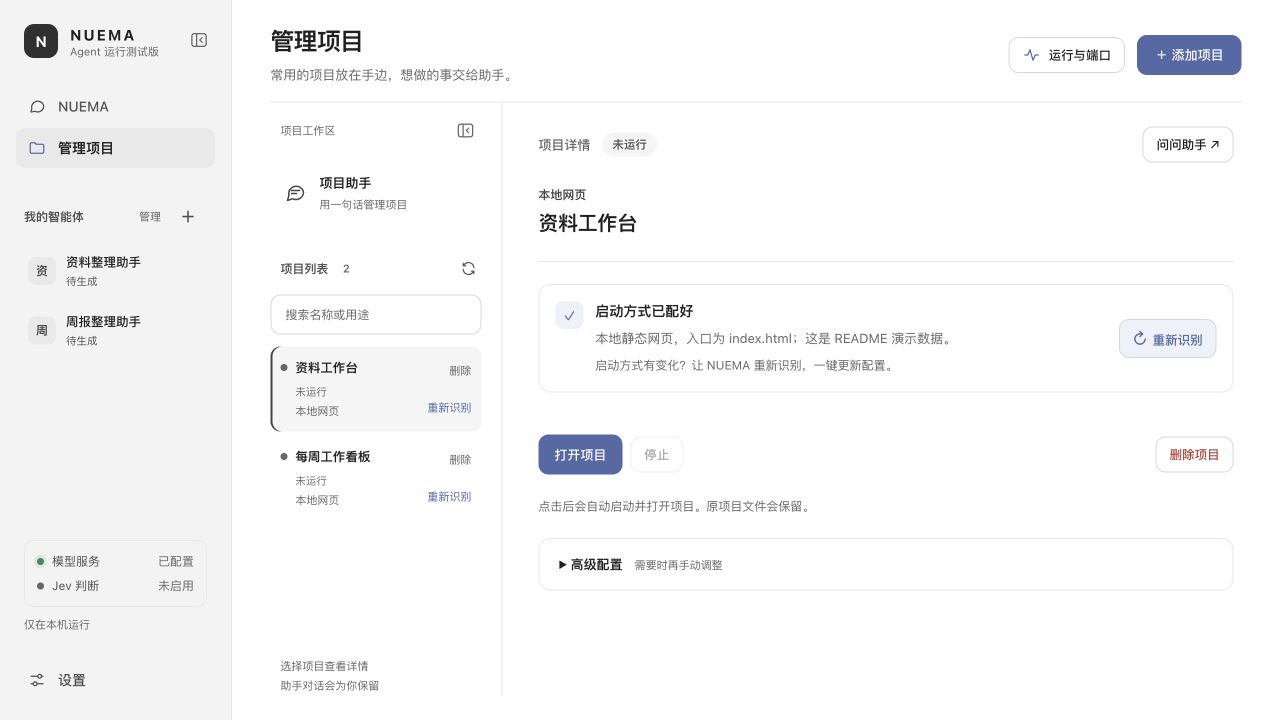
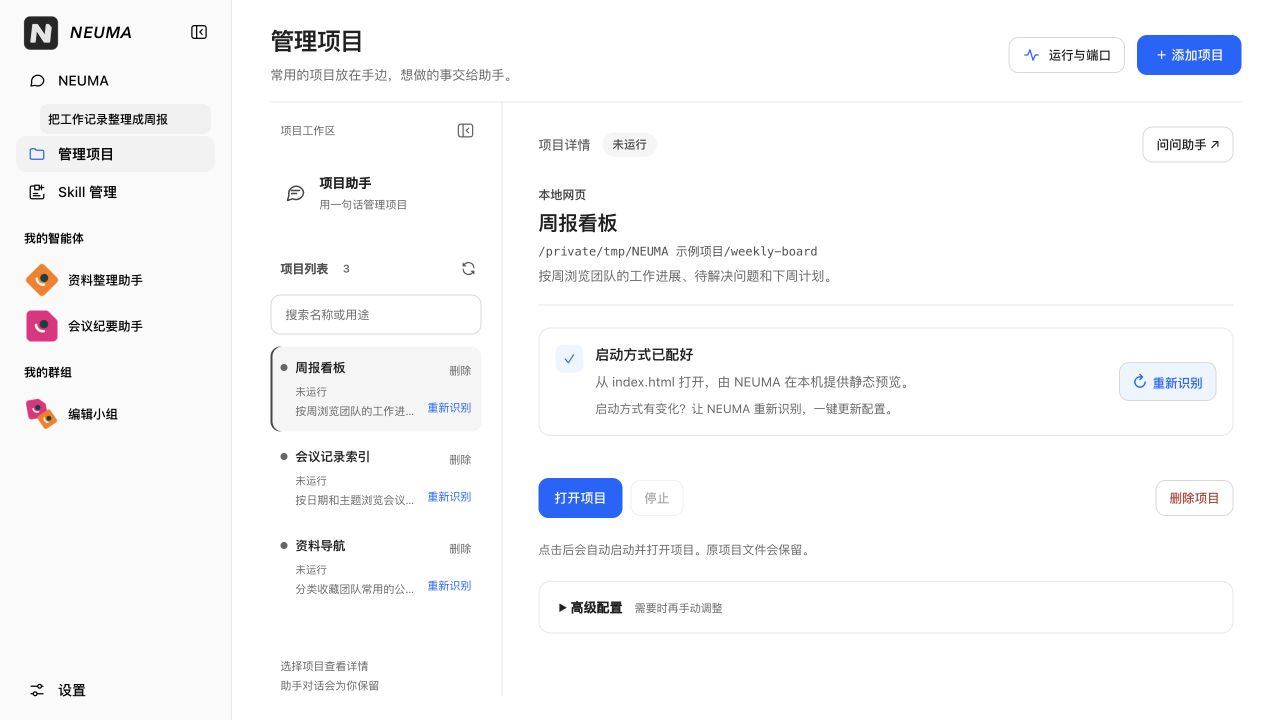
docs: refresh README and workspace screenshots

diff --git a/README.md b/README.md
@@ -1,125 +1,20 @@
 # NEUMA
 
-**从一句想法，到你的专属智能体。**
+NEUMA（纽玛）是一个本机智能体工作台。你可以在主对话里描述一项反复要做的工作，例如把每周的零散记录整理成周报。NEUMA 会和你一起确定输入和交付格式，再制作一个可以反复使用的助手。已有的助手可以组成群组，共享材料、分工并汇总结果。
 
-NEUMA 是一个在本机运行的智能体工作台。你用自然语言描述想完成的事，它帮你澄清需求、设计方案并检查可行性：简单任务生成轻量助手，需要代码的任务继续进入研发与验收。它也能集中管理电脑上已有的项目。
+[快速开始](#快速开始) · [工作台入口](#工作台入口) · [源码开发](#源码开发) · [详细使用指南](docs/user-guide.md)
 
-主 Agent 提供统一的长期对话入口：创建智能体、澄清需求、查询进度和派发群任务都在这里进行。点击左侧“我的智能体”“我的群组”标题可进入对应管理页；点击具体条目可折叠历史，悬浮时右侧的“方框加笔”图标可开启该条目的新对话；右侧仅在处理需求或具体群任务时展开相关信息。你可以把已有智能体组成长期群组，让成员自主认领、互相求助并整合成果；主 Agent 位于群外负责管理。
+![NEUMA 主对话正在澄清周报需求，右侧的需求说明显示每次输入、核心任务和输出结果](docs/images/readme-workspace.jpg)
 
-NEUMA 读作“纽玛”，取意早期音乐记谱中的 *neuma*：把声音组织成可复现的结构，对应把语言描述变成可运行的智能体。[Treccani 词典](https://www.treccani.it/vocabolario/neuma/)将这一音乐术语溯源到古希腊语 **νεῦμα**，意为“示意、手势”。正式拼写统一为 **NEUMA**。
-
-[快速开始](#快速开始) · [项目特点](#项目特点) · [源码开发](#源码开发) · [npm](https://www.npmjs.com/package/@chrissliu/neuma)
-
-> 本仓库版本号为 `0.1.0-preview.2`，发布范围是 **Apple 芯片 Mac（M 系列）试用版**。npm 安装使用 `preview` 标签；源码更新与 npm 发布分别进行，已发布包的版本和内容以 npm 实际记录为准。Windows、Linux 和 Intel Mac 尚不在当前支持范围内。
-
-![NEUMA 需求工作区：对话与需求草稿并排展示](https://raw.githubusercontent.com/Chriss09-ui/NEUMA/main/docs/images/readme-workspace.jpg)
-
-*需求澄清示例，截图使用旧版布局、临时演示数据与固定回复。当前版本已合并到主对话，右侧需求说明按需展开。*
-
-## 项目特点
-
-| 特点 | 你可以做什么 |
-| --- | --- |
-| **用日常语言创建助手** | 描述目标、材料和预期结果。追问会问清资料怎样交给智能体、大概有多少，并按工作台现有能力取舍。确认前可查看右侧草稿。 |
-| **先设计，再独立检查** | 复杂蓝图可按具体难点分派专项子 Agent，分别核对平台、接口或验收方案；在蓝图和模块提交时检查需求分工、全局配置与能力声明，问题交回对应责任节点。设计与评估依据同一份平台能力快照，最终仍完整检查需求覆盖、能力范围和验收条件。 |
-| **按复杂度选择实现方式** | 简单任务使用模型与文件工具；需要代码的任务进入“接收设计 → 拆分任务 → 开发 → 验收 → 交付”，可查看进度、停止和继续。 |
-| **按工作量分组设计与修复** | 复杂架构按职责分配模块；较大研发任务拆分骨架、用例设计和独立评审。修复按问题归属分派子 Agent，保留检查点与累计用量，合并后重新验收。 |
-| **每个智能体有自己的空间** | 需求、方案、代码、记忆与产物分别保存。对话自动保存，可从历史列表继续聊天，通过“产物”查看文件。 |
-| **回复支持格式与公式** | 助理回复显示加粗、列表、代码和数学公式；公式字体与排版库由本机服务提供，历史消息无需重新生成。 |
-| **群内自主协作** | 创建长期团队，成员互相了解能力、认领任务、定向求助，每项工作选出临时整合者。群记录、共享资料及成果独立保存。 |
-| **主 Agent 全局管理** | 查询各群与智能体的进度、阻塞和实际结果，按需要查看详情，分配任务与管理群组。 |
-| **共享上传材料能力** | 已就绪助手可上传或选择已有材料；同一助手的不同对话可再次使用文档、表格、PDF、演示文稿与图片。 |
-| **默认联网** | 新旧正式智能体默认具备公开网页搜索及正文读取；无需搜索 Key，也可以明确要求不联网。 |
-| **在 NEUMA 内使用交互应用** | 需要页面的任务交付应用工作区，页面和助手对话调用同一套已验收操作；任务进度、结果与产物保存在服务端。 |
-| **生成程序隔离运行** | 文件工具限制在专属目录，生成的本地程序经隔离环境运行；缺少所需系统能力时阻止执行。实际产物可预览和下载。 |
-| **管理已有本机项目** | 从文件夹接入现有项目，识别启动方式，打开或停止受管项目，查看运行状态与端口占用。 |
-
-![NEUMA 项目管理：项目列表、启动配置与操作入口](https://raw.githubusercontent.com/Chriss09-ui/NEUMA/main/docs/images/readme-projects.jpg)
-
-*已有项目留在原位置，在同一个工作区查看配置与操作入口。图中是未启动的演示项目。*
+*周报助手的需求进入「待你确认」时，可以对照右侧草稿，在原对话里直接修改。本文两张截图均取自 `main` 分支运行的桌面界面，使用演示数据。*
 
 ## 快速开始
 
-### 1. 安装并启动
+试用版支持 **Apple 芯片 Mac（M 系列）、macOS 14 或更新版本**。请使用 ARM64 版 Node.js，推荐 26+，也支持 22.x 的 22.22.2+ 和 24.x 的 24.15.0+。
 
-需要 **Apple 芯片 Mac、macOS 14+ 和 ARM64 版 Node.js**。推荐 Node.js 26+；其他兼容版本为 22.22.2+（22.x）和 24.15+（24.x）。材料解析原生模块要求 macOS 14 或更新版本；当前本机实际验证使用 Node.js 26.3.0。
+### 1. 启动工作台
 
-```sh
-npm install -g @chrissliu/neuma@preview
-neuma
-```
-
-启动后自动打开本机网页。保留终端运行，按 **Ctrl+C** 关闭服务及受管项目。首次安装会下载锁定的 SDK 依赖，无需安装虚拟机。
-
-### 2. 连接你选择的模型
-
-打开网页里的“设置”，填写：
-
-- **接口地址**：完整的 `/chat/completions` 地址。
-- **模型名称**：服务商提供的模型 ID。
-- **API Key**：你的模型服务密钥。
-
-当前支持 **OpenAI Chat Completions 兼容接口**，模型需要支持流式回复与工具调用。未配置模型时仍可打开页面。
-
-同一页可以选填 **Jev 需求判断** 的 TypeSafe API Key。填写后，Jev 只为你刚回答的那一点打分：达到通过线就继续，低于通过线时由需求整理决定要不要再问这一点。不填写则跳过这一步，澄清仍由需求整理和规则继续。默认模型为 `jev-1.14.0`。
-
-### 3. 创建第一个智能体
-
-1. 在主对话中描述想创建的助手，例如：“创建一个把工作记录整理成周报的智能体，缺少的信息明确标注。”NEUMA 根据对话识别意图，在同一输入框中继续澄清。
-2. 回答澄清问题。NEUMA 会问清目标、使用场合、资料怎样交给智能体、资料大概有多少，以及要交付的结果。公开搜索和网页读取是现成能力。浏览器自动操作、定时或外部事件触发的后台运行、公有云部署、直接使用数据库协议、不受限制地操作这台电脑，目前做不到，不会被当成以后可以补上。回复“确认”表示需求可以进入下一步，智能体尚未制作完成。
-3. 等待方案设计和独立检查；需要代码时继续研发与验收。
-4. 从“我的智能体”打开助手，输入任务，按需要上传或选择材料，并查看文件产物。
-
-如果想管理已有项目，进入“管理项目”，添加电脑上的项目文件夹即可。相关运行环境和项目依赖需提前准备好。
-
-### 4. 使用应用与专属连接
-
-例如描述：“创建一个链接资料搜寻工具：输入网页链接，先读取网页，再搜索相关公开资料；显示进度、筛选结果并导出 CSV，在 NEUMA 里提供操作页面。”交付页面的智能体首次默认打开“应用”，可切换“对话”或展开右侧“助手”；每个智能体记住最近的展示方式。
-
-公开搜索与网页读取默认通过 Tavily 无 Key 服务，失败时尝试 Exa 免费备用，这一免费底座内部切换无需专属搜索的回退授权。免费服务可能限流；界面与工具保留真实失败、来源、检索时间及正文截断信息。明确要求刷新或最新结果时跳过五分钟缓存。免费能力不包含模型服务，工作模型仍使用平台配置。
-
-“设置 → 连接与模型”按已确认需求展示配置项：可选专属搜索、OpenAI 兼容模型，以及已设计的 HTTP 或 MCP 业务连接。业务连接支持匿名、访问令牌、请求头密钥、账号密码和登录授权。专属搜索失败只有在勾选允许备用时才回退到公共底座；模型和业务连接不静默替换。没有无副作用测试接口时显示“已配置，尚未验证”，仍可按已设计操作发起首次真实请求，结果如实记录。凭据单独保存在服务端，不写入页面、对话备份或应用交付包。配置步骤见 [连接指南](docs/connections-guide.md)。
-
-应用通过验收后，即使缺少某个必需连接，也可打开页面和设置，只有依赖它的动作被阻止。提交操作后可查看任务、结果与产物；切页、刷新或关闭浏览器不会取消任务，需点击“停止”。服务重启后需核对未完成任务及检查点，不自动重放外部动作。内置 Node 操作最多 120 秒；受管服务默认每次请求 10 分钟，按已评审配置执行，长流程分步保存状态。
-
-## 数据与使用方式
-
-- **文件与配置保存在本机**：默认保存在用户主目录的 `.neuma/`，与程序安装目录分开。升级或卸载程序不会删除该目录。
-- **模型由你选择**：需要模型处理的内容会发往你配置的服务商，费用按其规则计算。
-- **工作对话自动保存**：主 Agent 的对话与需求草稿、群记录及各智能体的工作对话分别持久保存。主对话、架构构建、研发、群任务和应用操作在本机服务运行时可继续，刷新或重新打开页面可查看同一任务，点击停止才取消；服务重启不会自动重放未完成工作。智能体记忆由用户编辑。
-- **删除历史对话**：主对话和工作智能体的历史条目右侧提供“更多 → 删除对话”，确认后移除该条历史。已创建的智能体、群组与成果保留；正在处理的主对话需先停止。
-- **已有项目保留本机权限**：生成程序的隔离执行，与用户明确启动的本机项目分开；已有项目按当前账户权限运行。
-
-## 更新与常用命令
-
-先关闭正在运行的服务，再更新并重新启动：
-
-```sh
-npm install -g @chrissliu/neuma@preview
-neuma
-```
-
-| 命令 | 用途 |
-| --- | --- |
-| `neuma --no-open` | 启动服务，手动打开终端提供的地址。 |
-| `neuma --port 3010` | 指定端口，保存为当前数据目录的默认端口。 |
-| `neuma doctor` | 检查本机运行与隔离能力。 |
-| `neuma --help` | 查看全部命令选项。 |
-
-## 当前能力范围
-
-- 需求澄清的每次追问都带有当前工作台的基本边界。可以处理对话里粘贴的内容、上传的文件，以及从指定位置读取的资料；允许联网时可以搜索和读取公开网页；普通文档可以生成并保存。业务接口等用户说明具体动作后再记录，追问时不索要密钥。资料的交给形式和大致量级必须来自用户自己的说明，不能默认很少或只处理一次。可选的 TypeSafe Jev 只评判当前对上的回答；未配置 API Key 时不调用。
-- 架构设计与评测优先复用已有能力和现有研发通道。每轮固定平台能力快照，生成、评测、模块顾问和研发共用完整能力事实；公共联网按独立底座契约校验，不改旧业务目录。`available` 表示工具已实现且允许调用，不代表某个网址读取成功、全文完整或业务效果已验收；专属连接的配置与验证另行判断。禁止联网、真实能力缺口和需求覆盖仍受程序门槛约束。新设计使用平台 v4 和架构 schema 3。历史平台 v1、v2、v3 及已批准定义仍按各自冻结范围验证，主动重新设计才生成新快照。
-- 已就绪智能体共享上传材料与读取能力，支持常见 Word、Excel、PowerPoint、PDF、图片及文本代码文件；上传材料与运行目录文件统一为单文件最多 20 MiB，每条消息最多关联 10 个材料。图片与扫描件理解需要支持图片输入的模型。
-- 智能体支持文本对话、专属目录文件工具以及托管 HTML/CSS/JavaScript 应用。需要代码时，根据已评审方案使用内置 Node 操作，或受管 JavaScript/Python 服务；容器方案还须本机 Docker 引擎可用并通过实际交付验收。操作通过平台授予的能力访问网页、模型、业务连接、材料、文件与持久状态，不直接监听端口或访问网络。没有页面时也可交付操作，旧版交付保持兼容。
-- 下载后在用户浏览器打开的 HTML/SVG 可以作为轻量助手的文件产物；在 NEUMA 内使用的托管页面和操作代码必须经过研发与验收。文件保存、读回校验、静态检查和实际运行验证分别记录，当前不提供自动浏览器执行验证，不能仅凭文件生成成功声称交互已验证。
-- 用户主动提交的应用操作与私聊、群工作共用全局两个工作槽，同一智能体串行执行。用户可主动开启本机 API/MCP 接口，供其他本机工具调用已交付的操作。后台定时、外部事件触发、公有云部署及不受限制的主机访问尚不支持。
-- 内置 Node 操作只使用内置模块；受管服务可使用经锁定和校验后由平台准备的依赖。Python 首次使用时准备受管环境；Docker 路径需要本机已安装并启动引擎。已有项目的环境与依赖仍由用户准备，不自动部署外部服务。
-- 这是试用版本。TypeScript 迁移验收时，Node 22.22.2、24.15.0、26.3.0 已分别通过同包启动与独立临时生产依赖安装检查；最低 macOS 和完整系统认证仍待补齐。后续源码或依赖变化需要重新验证相应安装包。
-
-## 源码开发
-
-本仓库的 [`main`](https://github.com/Chriss09-ui/NEUMA/tree/main) 分支使用以下源码开发方式；npm 发布包与源码进度分别维护。使用前述 Node.js 环境安装并启动：
+**从源码运行**可以使用截图里的界面。在终端执行以下命令，然后打开终端显示的本机地址，默认是 `http://127.0.0.1:3000`。
 
 ```sh
 git clone https://github.com/Chriss09-ui/NEUMA.git neuma
@@ -129,63 +24,86 @@ cp .env.example .env
 npm start
 ```
 
-自有后端、前端、测试、安装及维护代码已迁为 TypeScript。`npm start` 会先严格编译到 `dist/ts-build/package/` 再启动；开发数据、配置与 Agent 工作根仍指向源码仓库。Node 源码使用 `.mts`，浏览器使用 `.ts`，CLI 使用 `.cts`，分别生成原 `.mjs`、`.js`、`.cjs` 路径。仅保留薄的 `scripts/build.mjs` 构建引导器；Python、C/C++ 和第三方资源保留原格式。浏览器地址与应用协议保持现有形式。
-
-启动后在网页“设置”中配置模型。服务端源码统一放在 `src/`，按功能分组；前端资源、测试和开发脚本分别在 `public/`、`test/` 和 `scripts/`。
-
-开发时可按层运行测试：
+**使用 npm 试用包**时，先安装，再运行 `neuma` 启动服务并打开浏览器。npm 的 `preview` 标签单独发布，例如 `0.1.0-preview.2` 的「新对话」按钮位于主聊天区顶部。更新时先按 Ctrl+C 关闭服务，再执行同一组命令。[npm 试用包](https://www.npmjs.com/package/@chrissliu/neuma)
 
 ```sh
-npm run test:unit          # 快速模块、VM 界面和 API 替身测试
-npm run test:integration   # 本机模拟模型的真实 SDK、隔离执行、进程与协议检查
-npm run test:browser       # 显式启用外部浏览器验收
-npm test                   # 原有全量入口，默认关闭外部浏览器
+npm install -g @chrissliu/neuma@preview
+neuma
+```
+
+### 2. 连接模型
+
+打开左下角「设置」，在「模型服务」中填写**接口地址、模型名和 API Key**。使用兼容 OpenAI Chat Completions 的接口，地址以 `/chat/completions` 结尾，模型需要支持流式回复和工具调用。可以先点「测试连接」，再点「保存设置」。需要模型处理的内容会发给所选服务商，费用按其规则计算。
+
+同页的「Jev 需求判断」可选。配置后，Jev 会辅助判断你刚回答的那项需求是否清楚。留空也可以完成下面的流程。
+
+### 3. 创建第一个智能体
+
+在左侧打开「NEUMA」，试着发一条消息。
+
+> 帮我创建一个周报助手。每周五我会贴 5 到 10 条工作记录，请按本周进展、待解决问题和下周计划整理成 Markdown。记录里没提到的信息标为「待补充」。
+
+1. 回答会影响结果的追问，查看右侧「需求说明」里的输入、输出和完成标准。想换格式或补一条规则，直接在同一个输入框说明。
+2. 草稿显示「待你确认」后，回复「确认」或点「确认需求并开始制作」。需求保存成功后，工作台会自动打开这个智能体，开始方案设计和独立评估。轻量助手通过检查后即可使用，需要代码的方案会继续研发和验收。
+3. 等智能体就绪，从「我的智能体」打开它，贴入这周的记录。也可以点输入框旁的「＋」上传或选用已有材料。想留下文件时，请它把周报保存为 `周报.md`，再点对话顶部的智能体名称，打开「产物」预览或下载。
+
+如果方案需要编写代码，制作页会显示任务拆分、开发、验收和交付进度。较大的任务可按模块分工，独立评审发现的问题会交回对应模块修复，再重新验收。中途停止后，可以从已保存的检查点继续。
+
+## 工作台入口
+
+| 入口 | 可以做什么 |
+| --- | --- |
+| **NEUMA** | 创建或迭代助手，给群组派发任务，或问「编辑小组的周报做到哪一步了」。右侧按当前对话展示需求或群任务详情。 |
+| **我的智能体** | 打开专属对话，继续历史记录，编辑这个助手的记忆或查看产物。已就绪的助手可以复用自己的上传材料，回复支持列表、代码和数学公式。 |
+| **我的群组** | 点击分区标题，再点「创建群组」选择成员。群里可以上传共享材料，也可以用 `@` 点名成员。就绪成员可认领任务、互相求助，由本轮的整合者汇总成果。 |
+| **Skill 管理** | 搜索本机技能，查看来源与配套文件，编辑可写的 `SKILL.md`。从文件夹导入时，可以选择通用、Codex、Claude、Pi 或项目目录。 |
+
+侧栏里的「我的智能体」和「我的群组」标题分别打开管理页。点具体条目可展开或收起它的历史。鼠标悬停或用键盘聚焦条目时，右侧会出现方框加笔图标，可以为该助手开启新对话，或在群里开启新话题。
+
+### 管理已有本机项目
+
+打开「管理项目」，点「＋ 添加项目」，选中项目文件夹或粘贴路径，再点「添加并自动配置」。模型识别启动方式后，项目就会出现在列表里。选择项目后点「打开项目」即可使用。要查正在运行的项目或端口占用，点右上角「运行与端口」。
+
+![NEUMA 项目管理页选中了周报看板，列表中可见三个项目，详情中可见启动方式和打开项目按钮](docs/images/readme-projects.jpg)
+
+*示例中的「周报看板」是一个已配置、尚未启动的本地网页。项目文件留在原文件夹，启动时使用当前账户的权限和项目自身的运行环境。*
+
+### 使用应用与外部连接
+
+如果任务需要表单、筛选或导出，在创建时说明希望怎样操作。例如，把周报需求改为「在工作台里按周查看记录，勾选本次要导出的条目」。交付了页面的智能体可以切换「应用」和「对话」，也可以在应用里展开「助手」。页面和对话共用已验收的操作。
+
+正式智能体默认可以搜索和读取公开网页，也可以在任务中明确要求不联网。专属搜索、模型、HTTP 或 MCP 业务连接在该智能体的「连接与模型」中按需配置。需要连接的操作会提示缺少的配置。要供其他本机工具调用，可在「运行与接口」中选择允许使用的操作并启用 API/MCP 接口。[连接指南](docs/connections-guide.md) · [智能体能力与服务](docs/agent-capabilities-and-services.md)
+
+## 数据与运行范围
+
+- **材料和产物。** 支持常见文档、表格、演示文稿、PDF、图片和文本代码文件。单个材料最多 20 MiB，每条消息最多关联 10 个。读取图片和扫描件需要支持图片输入的模型。同一智能体的不同对话可复用材料，分享给群组时由你选择具体文件。
+- **本机数据。** npm 安装版默认把设置、对话和智能体工作目录保存在 `~/.neuma/`。源码版使用仓库内的 `.neuma/` 存储工作数据，使用仓库根目录的 `.env` 保存模型设置。
+- **任务进度。** 本机服务运行时，主对话、智能体制作、群任务和应用操作可以在切页或关闭浏览器后继续。重新打开原对话或智能体即可查看进度。服务重启后可根据记录和检查点处理未完成的工作，外部操作不会自动重放。
+- **执行环境。** 生成的程序在隔离环境中运行。根据已评审的方案，工作台可以执行内置 Node 操作或启动受管 JavaScript/Python 服务。选择容器时还需要可用的本机 Docker 引擎。当前支持用户主动发起的工作，暂不支持后台定时、外部事件触发或公有云部署。
+
+## 源码开发
+
+`npm start` 先严格编译 TypeScript，再从 `dist/ts-build/package/` 启动。服务端在 `src/`，桌面网页在 `public/`，测试按领域放在 `test/`。
+
+```sh
+npm run check:hygiene        # 检查模块边界、测试登记和文档引用
+npm run typecheck            # 严格类型检查
+npm run test:unit            # 模块、界面和 API 单元测试
+npm run test:integration     # 本机模拟模型、进程和隔离执行测试
+npm test                     # 全量回归，外部浏览器测试需显式启用
 npm run release:preview:check
-npm run typecheck         # 严格检查全部自有 TypeScript
-npm run check:hygiene     # 仓库规范检查：模块依赖、测试登记、文档引用、误生成文件
-npm run build             # 生成同一目录布局的运行产物
-npm run package:pack      # 编译、检查并打包到 dist/npm/
-npm run test:package:smoke # 解包启动检查，复用开发依赖
-npm run test:package:install # 独立临时安装生产依赖并启动
+npm run package:pack         # 编译并生成试用安装包到 dist/npm/
 ```
 
-测试命令自动构建并运行产物目录中的测试，构建失败或产物过期会停止执行。请使用 `package:pack` 生成安装包；源码目录直接 `npm pack`／`npm publish` 会被保护入口拒绝。打包本身不会公开发布。
-
-前三个命令加 `-- --list` 可只查看文件清单。测试按领域存放在 `test/` 的子目录（runtime、build、ui、installation、requirements、architecture、development、agents、applications、collaboration、services、projects），顶层仅保留 server 组装测试和原生工作流固定引用的 4 个入口。分类按文件维护在 `scripts/run-tests.mts`，运行产物为同名 `.mjs`；混有真实执行的文件归入集成组，新文件未登记时提示并默认加入集成组。模块和集成命令始终关闭外部浏览器。浏览器命令运行现有 4 个文件中的浏览器验收及附带状态检查，保留 `NEUMA_TEST_BROWSER` 指定的程序；macOS 默认只尝试 Dia，当前无界面参数兼容性仍待验证，不能把未运行或失败的浏览器检查当作通过。模型协议测试使用本机模拟接口，不调用真实模型服务。
-
-```text
-src/
-├── server.mts         服务与 API 入口
-├── settings.mts       模型与本机设置
-├── app-metadata.mts   应用版本与元数据
-├── installation/      命令行、安装、数据迁移与实例锁
-├── architecture/      方案设计、契约校验与独立评估
-├── development/       研发流程、验收、工作区与交付
-├── verification/      验收契约与输入拒绝证据
-├── agents/            智能体定义、持久化与保存记录
-├── applications/      应用交付、独立资源来源、持久任务与状态
-├── requirements/      需求澄清、模型服务与响应流
-├── main/              主 Agent 长期对话与全局管理
-├── collaboration/     群组协作、认领与公开/内部消息
-├── connections/       HTTP/MCP/OAuth 通用连接与凭据仓库
-├── services/          托管服务、流程控制器与专属网关
-├── materials/         上传材料解析与 Agent 间共享
-├── projects/          本机项目登记、检查与运行管理
-├── skills/            本机 Skill 管理（独立维护边界）
-├── contracts/         跨领域共享声明
-└── runtime/           自有执行契约、准入与清理、Pi 和原生隔离适配
-```
-
-各领域的职责边界、状态归属、关键约束和验证入口见 [ARCHITECTURE.md](ARCHITECTURE.md)。
+安装版可用 `neuma --no-open` 手动打开网页、`neuma --port 3010` 指定端口、`neuma doctor` 检查运行和隔离能力。其他启动参数见 `neuma --help`。独立安装、数据迁移和打包验证见 [安装指南](docs/npm-installation.md)。
 
 ## 文档
 
-- [AGENTS.md](AGENTS.md)：日常开发约定与验证要求。
-- [ARCHITECTURE.md](ARCHITECTURE.md)：当前架构基线，按主题组织。
-- [docs/user-guide.md](docs/user-guide.md)：用户使用说明。
-- [docs/agent-capabilities-and-services.md](docs/agent-capabilities-and-services.md)：智能体能力、连接与运行。
-- [docs/connections-guide.md](docs/connections-guide.md)：连接配置指南。
-- [docs/npm-installation.md](docs/npm-installation.md)：npm 安装与验收细节。
-- [docs/development-layer-design.md](docs/development-layer-design.md)：研发层五阶段设计。
-- [运行可靠性实施记录](docs/runtime-reliability-implementation-2026-10-26.md)：五项改造、恢复边界与验证证据。
-- `docs/history/` 与 `本地测试记录/`：历史档案与冻结验证证据，非当前规范。
+| 想了解的内容 | 文档 |
+| --- | --- |
+| 创建助手、共享材料、管理项目和本机技能 | [使用指南](docs/user-guide.md) |
+| 各层的职责、状态、数据流与中断恢复 | [架构基线](ARCHITECTURE.md) · [节点与字段](docs/node-flow-and-fields.md) · [运行可靠性实施记录](docs/runtime-reliability-implementation-2026-10-26.md) |
+| 代码型智能体怎样从任务拆分走到验收与交付 | [研发层设计](docs/development-layer-design.md) |
+| 修改代码时需要同步的文档和提交前检查 | [开发约定](AGENTS.md) |
+
+NEUMA 读作「纽玛」，名字取自中世纪音乐记谱中的 *neuma*，指示旋律走向的记号。这个词源自古希腊语 **νεῦμα**，意为「示意、手势」。[Treccani 词典](https://www.treccani.it/vocabolario/neuma/)
